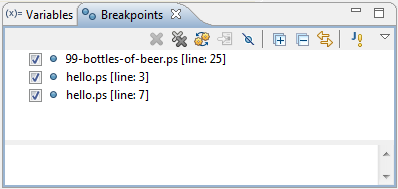
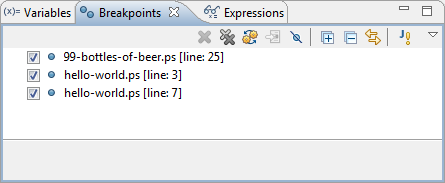
Added help page for Expressions view

Changed region(s): [[0.0, 0.0, 1.0, 1.0], [0.0603, 0.2732, 0.5729, 0.5464]]

diff --git a/de.tfritsch.psdt.help/html/perspectives_and_views/debug_perspective.html b/de.tfritsch.psdt.help/html/perspectives_and_views/debug_perspective.html
@@ -25,9 +25,9 @@
 			the various variables in your PostScript process.</li>
 		<li><a href="breakpoints_view.html">Breakpoints View</a> -
 			Displays the breakpoints you have entered.</li>
-		<li>Expressions View - Displays the progress of selected
-			variables. The view will only be displayed if you have selected to
-			watch a variable.</li>
+		<li><a href="expressions_view.html">Expressions View</a> -
+			Displays the progress of selected variables. The view will only be
+			displayed if you have selected to watch a variable.</li>
 		<li><a href="editor_view.html">Editor</a> - Displays the code at
 			the relevant sections, according to which line is selected in the
 			Debug View window.</li>

diff --git a/de.tfritsch.psdt.help/html/perspectives_and_views/expressions_view.html b/de.tfritsch.psdt.help/html/perspectives_and_views/expressions_view.html
@@ -1,0 +1,19 @@
+<!DOCTYPE html>
+<html>
+<head>
+<title>Expressions View</title>
+<link rel="stylesheet" type="text/css" href="../format.css" />
+<script type="text/javascript"
+	src="PLUGINS_ROOT/org.eclipse.help/livehelp.js"></script>
+</head>
+<body>
+	<h1>Expressions View</h1>
+	<p>
+		The <b>Expressions View</b> is part of the <a
+			href="debug_perspective.html">Debug Perspective</a>. When debugging a
+		PostScript program, data that contains variables can be expanded to
+		show them.
+	</p>
+	<img src="expressions_view.png" />
+</body>
+</html>
